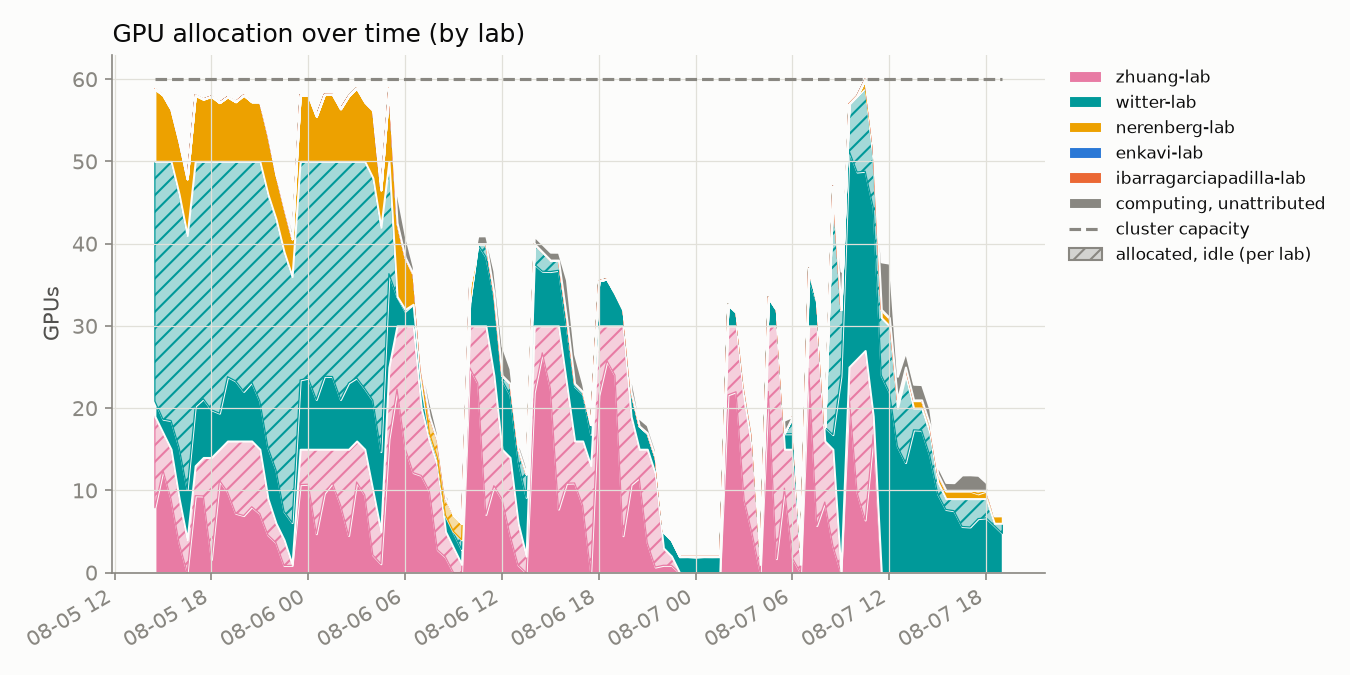
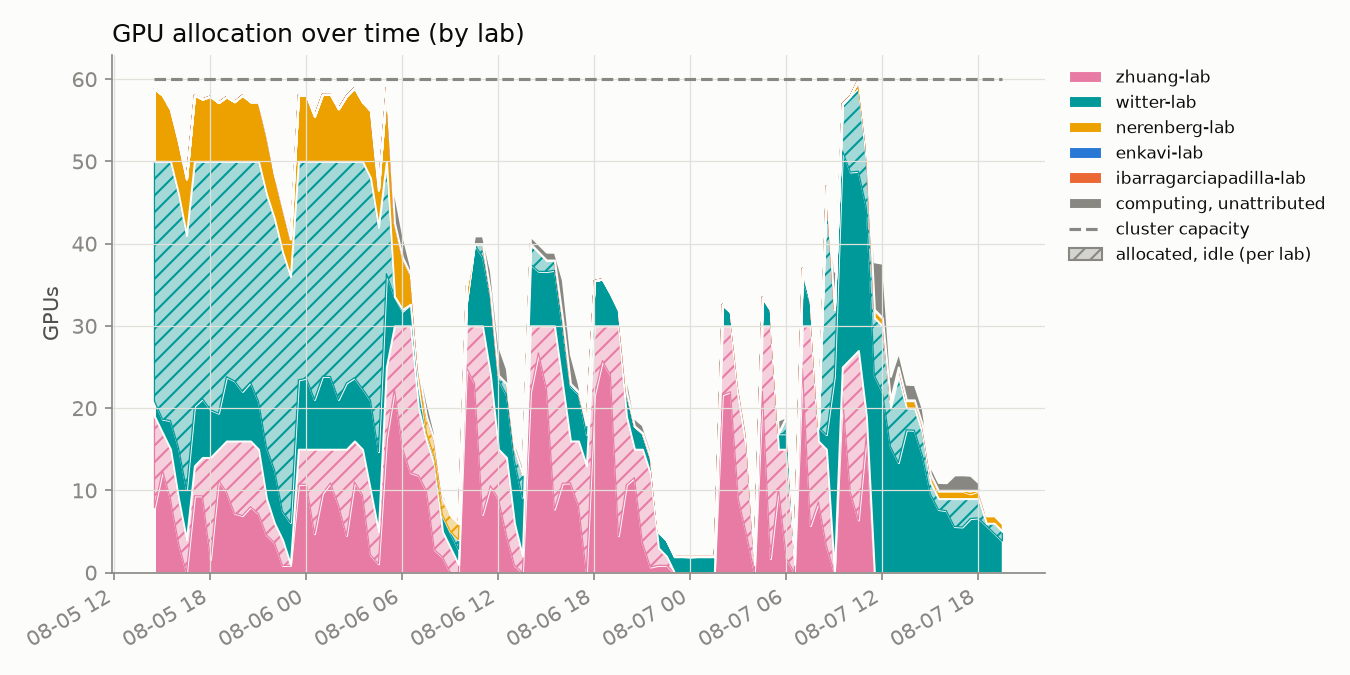
update 2026-08-07T19:30:01-07:00

diff --git a/README.md b/README.md
@@ -2,8 +2,8 @@
 
 Automated GPU/CPU/queue utilization tracker for `hopper.cluster`, updated every 30 minutes by cron. Usernames are anonymized to a stable per-account pseudonym; lab names are real.
 
-Last updated: 2026-08-07T19:00:09-07:00
-Samples: 106 queue snapshots, 106 GPU snapshots
+Last updated: 2026-08-07T19:30:11-07:00
+Samples: 107 queue snapshots, 107 GPU snapshots
 
 ## Resources
 
@@ -16,7 +16,7 @@ Samples: 106 queue snapshots, 106 GPU snapshots
 
 ## Headline
 
-- **50.9%** of the cluster's 60 GPUs allocated, averaged across all samples
+- **50.5%** of the cluster's 60 GPUs allocated, averaged across all samples
 - **46.4%** average `nvidia-smi` utilization *when* a GPU is allocated to a job
 - **87.2%** average cgroup CPU utilization *when* a CPU is allocated to a job
 
@@ -26,14 +26,14 @@ Samples: 106 queue snapshots, 106 GPU snapshots
 <tr><th>Lab</th><th>User</th><th align='right'>GPU-hours allocated</th><th align='right'>CPU-hours allocated</th><th align='right'>GPU utilization</th></tr>
 <tr style='background-color:#fbebf1'><td>zhuang-lab</td><td>user-0db9ced0</td><td align='right'>722.0</td><td align='right'>722.0</td><td align='right'>48%</td></tr>
 <tr style='background-color:#d8efef'><td>witter-lab</td><td>user-d58f5a15</td><td align='right'>467.5</td><td align='right'>3740.0</td><td align='right'>9%</td></tr>
-<tr style='background-color:#d8efef'><td>witter-lab</td><td>user-554c620c</td><td align='right'>379.5</td><td align='right'>853.5</td><td align='right'>66%</td></tr>
+<tr style='background-color:#d8efef'><td>witter-lab</td><td>user-554c620c</td><td align='right'>382.0</td><td align='right'>863.5</td><td align='right'>66%</td></tr>
 <tr style='background-color:#fcf0d8'><td>nerenberg-lab</td><td>user-6bb5f332</td><td align='right'>40.0</td><td align='right'>200.0</td><td align='right'>71%</td></tr>
-<tr style='background-color:#fcf0d8'><td>nerenberg-lab</td><td>user-fedb5feb</td><td align='right'>9.0</td><td align='right'>40.5</td><td align='right'>51%</td></tr>
-<tr style='background-color:#fce8e0'><td>ibarragarciapadilla-lab</td><td>user-3cfc41a3</td><td align='right'>0.0</td><td align='right'>3720.0</td><td align='right'>—</td></tr>
-<tr style='background-color:#fce8e0'><td>ibarragarciapadilla-lab</td><td>user-eec7ffae</td><td align='right'>0.0</td><td align='right'>426.5</td><td align='right'>—</td></tr>
+<tr style='background-color:#fcf0d8'><td>nerenberg-lab</td><td>user-fedb5feb</td><td align='right'>9.5</td><td align='right'>41.0</td><td align='right'>53%</td></tr>
 <tr style='background-color:#fcf0d8'><td>nerenberg-lab</td><td>user-b12dc074</td><td align='right'>0.0</td><td align='right'>16.0</td><td align='right'>—</td></tr>
-<tr style='background-color:#fce8e0'><td>ibarragarciapadilla-lab</td><td>user-dad71a72</td><td align='right'>0.0</td><td align='right'>6.0</td><td align='right'>—</td></tr>
 <tr style='background-color:#dfeaf8'><td>enkavi-lab</td><td>user-c21bdaa4</td><td align='right'>0.0</td><td align='right'>171.0</td><td align='right'>—</td></tr>
+<tr style='background-color:#fce8e0'><td>ibarragarciapadilla-lab</td><td>user-eec7ffae</td><td align='right'>0.0</td><td align='right'>426.5</td><td align='right'>—</td></tr>
+<tr style='background-color:#fce8e0'><td>ibarragarciapadilla-lab</td><td>user-dad71a72</td><td align='right'>0.0</td><td align='right'>6.0</td><td align='right'>—</td></tr>
+<tr style='background-color:#fce8e0'><td>ibarragarciapadilla-lab</td><td>user-3cfc41a3</td><td align='right'>0.0</td><td align='right'>3727.5</td><td align='right'>—</td></tr>
 </table>
 
 ## Usage over time
@@ -44,7 +44,7 @@ Samples: 106 queue snapshots, 106 GPU snapshots
 
 Solid = utilized by lab, hatched = allocated but idle, gray = usage not traceable to a lab, dashed line = cluster capacity.
 
-Attribution combines `nvidia-smi`'s process listing with Slurm's GPU-to-job binding record; the latter caught **2420** readings the former missed.
+Attribution combines `nvidia-smi`'s process listing with Slurm's GPU-to-job binding record; the latter caught **2424** readings the former missed.
 
 ## Queue
 
@@ -56,13 +56,13 @@ Attribution combines `nvidia-smi`'s process listing with Slurm's GPU-to-job bind
 
 ![CPU usage vs GPU usage, decayed](assets/cpu_gpu_usage.png)
 
-One point per user per snapshot (n=516), usage decayed on Slurm's ~7-day fairshare half-life.
+One point per user per snapshot (n=520), usage decayed on Slurm's ~7-day fairshare half-life.
 
 **GPU usage doesn't count toward priority on this cluster** (`TRESBillingWeights`/`PriorityWeightTRES` unset) - watch the **upper-left**: low CPU usage (high priority) with high GPU usage.
 
 ## Recommendations
 
-1. **Weight GPU usage in fairshare.** `TRESBillingWeights` and `PriorityWeightTRES` are both unset right now, so Slurm's fairshare score only sees CPU-seconds - a job holding 4 idle L40S GPUs costs nothing in priority as long as it isn't also holding CPUs. That's the exact failure mode the scatter above is built to catch (upper-left: low CPU usage, high GPU usage). Fix: `scontrol update partition=main TRESBillingWeights=CPU=1.0,GRES/gpu=<weight>` (or set `PriorityWeightTRES` cluster-wide), then `scontrol reconfigure` - a full `slurmctld` restart also works but drops in-flight priority state. A reasonable starting point for `<weight>` is the CPUs-per-GPU ratio on a GPU node (128 CPUs / 4 GPUs = 32), so one GPU costs as much fairshare as the CPU share it displaces; tune from there against next week's headline numbers (50.9% allocated, 46.4% utilized when allocated, as of this snapshot). The weight value itself is a policy call - loop in whoever owns cluster allocation policy before changing it.
+1. **Weight GPU usage in fairshare.** `TRESBillingWeights` and `PriorityWeightTRES` are both unset right now, so Slurm's fairshare score only sees CPU-seconds - a job holding 4 idle L40S GPUs costs nothing in priority as long as it isn't also holding CPUs. That's the exact failure mode the scatter above is built to catch (upper-left: low CPU usage, high GPU usage). Fix: `scontrol update partition=main TRESBillingWeights=CPU=1.0,GRES/gpu=<weight>` (or set `PriorityWeightTRES` cluster-wide), then `scontrol reconfigure` - a full `slurmctld` restart also works but drops in-flight priority state. A reasonable starting point for `<weight>` is the CPUs-per-GPU ratio on a GPU node (128 CPUs / 4 GPUs = 32), so one GPU costs as much fairshare as the CPU share it displaces; tune from there against next week's headline numbers (50.5% allocated, 46.4% utilized when allocated, as of this snapshot). The weight value itself is a policy call - loop in whoever owns cluster allocation policy before changing it.
 
 2. **Escalate on sustained low utilization** (see table and scatter above). Right now the clearest candidate is `user-d58f5a15` in `witter-lab`: 467.5 GPU-hours allocated at 9% average utilization, i.e. roughly 424 GPU-hours that sat idle instead of going to someone in the queue. Turning that into an automated escalation needs two decisions made up front: a utilization threshold (something like under 20% mean utilization over at least 50 allocated GPU-hours is a defensible starting bar - loose enough to skip short debugging runs, tight enough to catch parked allocations) and a grace period (how many consecutive low-utilization snapshots before it counts as "sustained" rather than a momentary lull between batches). Once those are set, the mechanism can be either soft (a bot that reads `data/gpu_samples.jsonl` and reminds the user/lab by email or Slack) or hard (a Slurm-side QOS penalty, e.g. `sacctmgr modify qos <qos> set Priority-=<n>`, applied after N consecutive offending snapshots). Neither exists yet - today the table and scatter above are a read-only signal, not an enforced policy.
 
